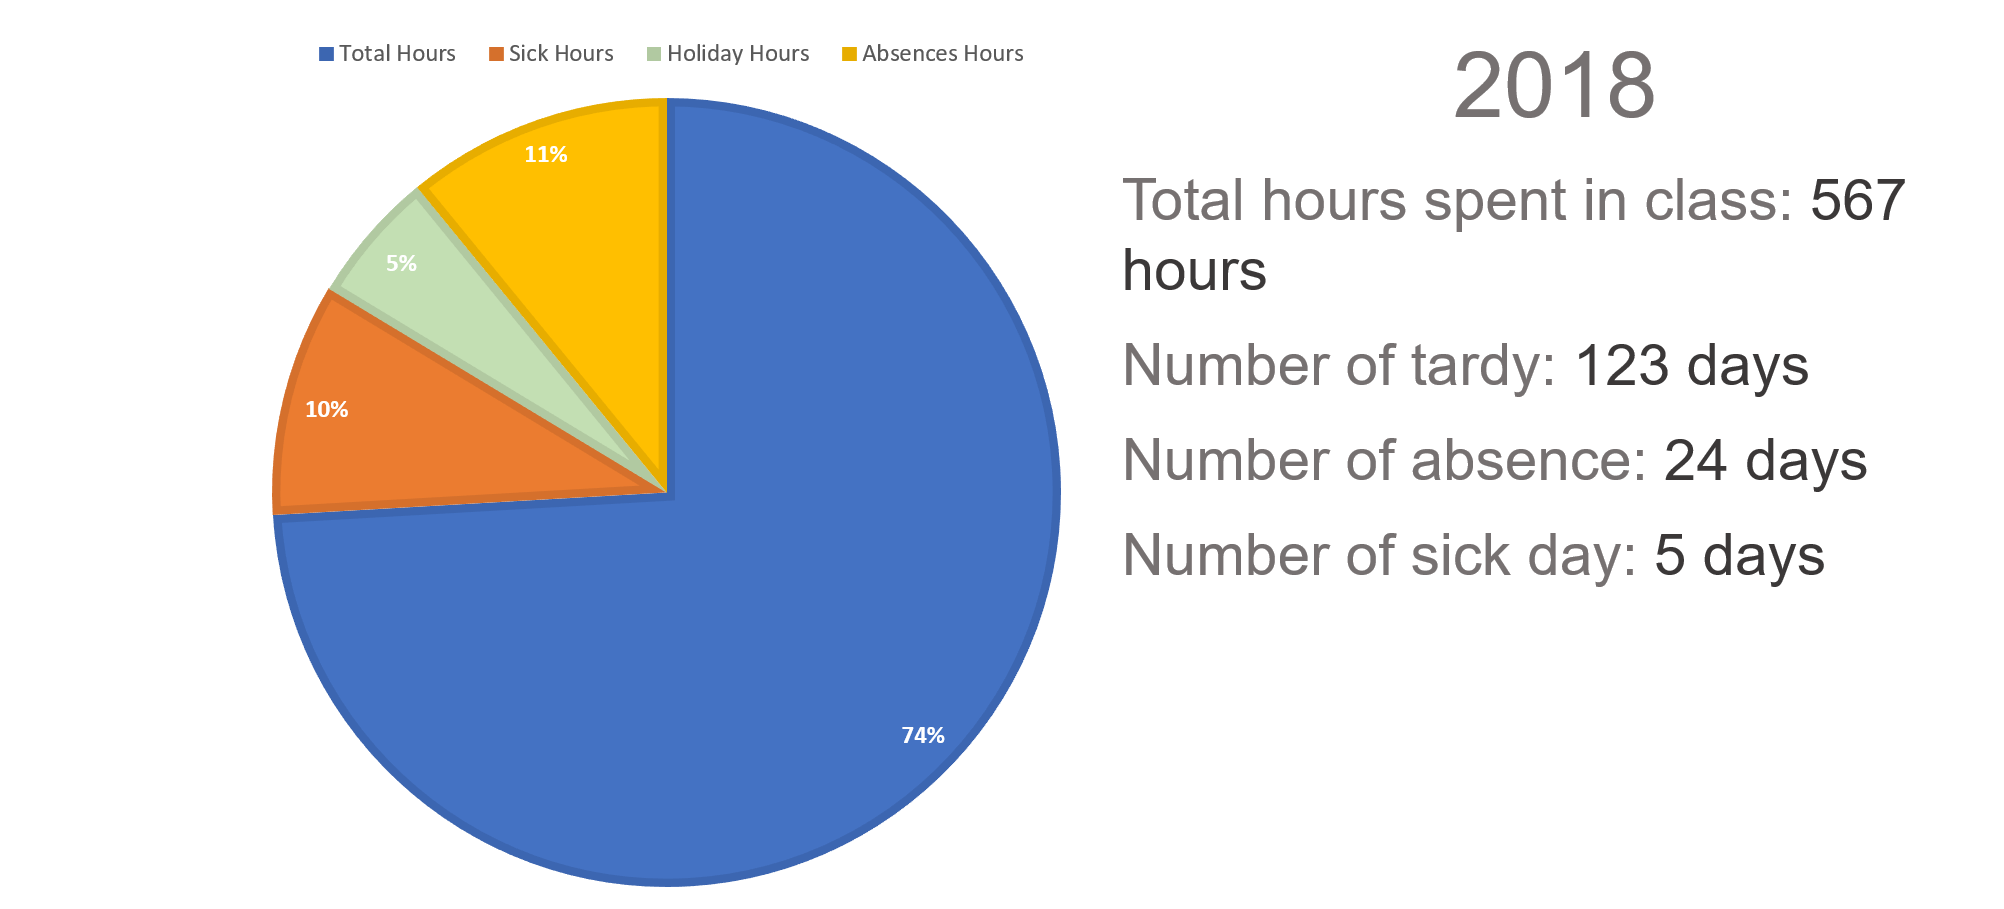
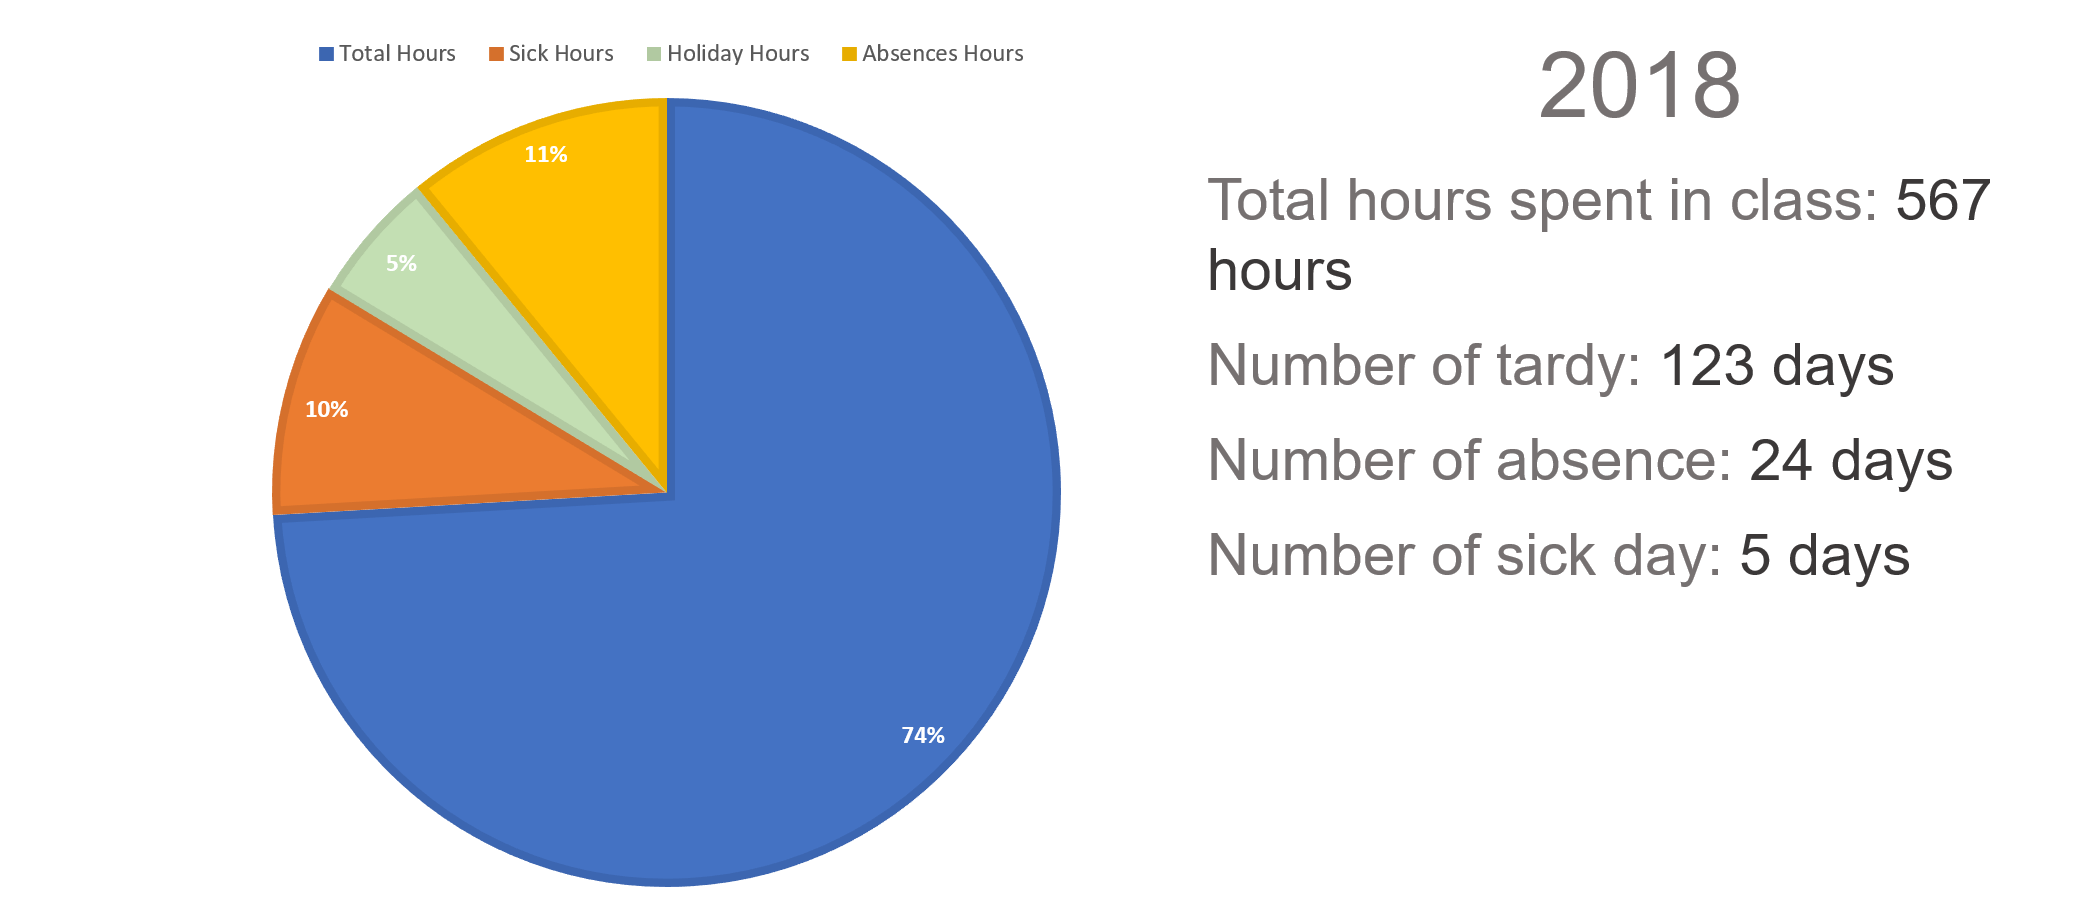
Added year pic in year tab and shop pic in shop tab

diff --git a/5051/Content/Student.css b/5051/Content/Student.css
@@ -125,10 +125,13 @@
     z-index: 0;
 }
 
-#shops {
-    position: center;
-    margin-top: -580px;
-    z-index: 2;
+.shops {
+    top: -500px;
+    margin-bottom: -430px;
+    height: auto;
+    width: 100%;
+    position: relative;
+    padding-right: 50px;
 }
 
 .mySlides {
@@ -140,7 +143,7 @@
     margin-bottom: -750px;
 }
 
-/*manage right */
+/*manage right button position in student/report */
 .slideButtonLeft {
     margin-bottom: -580px;
 }
